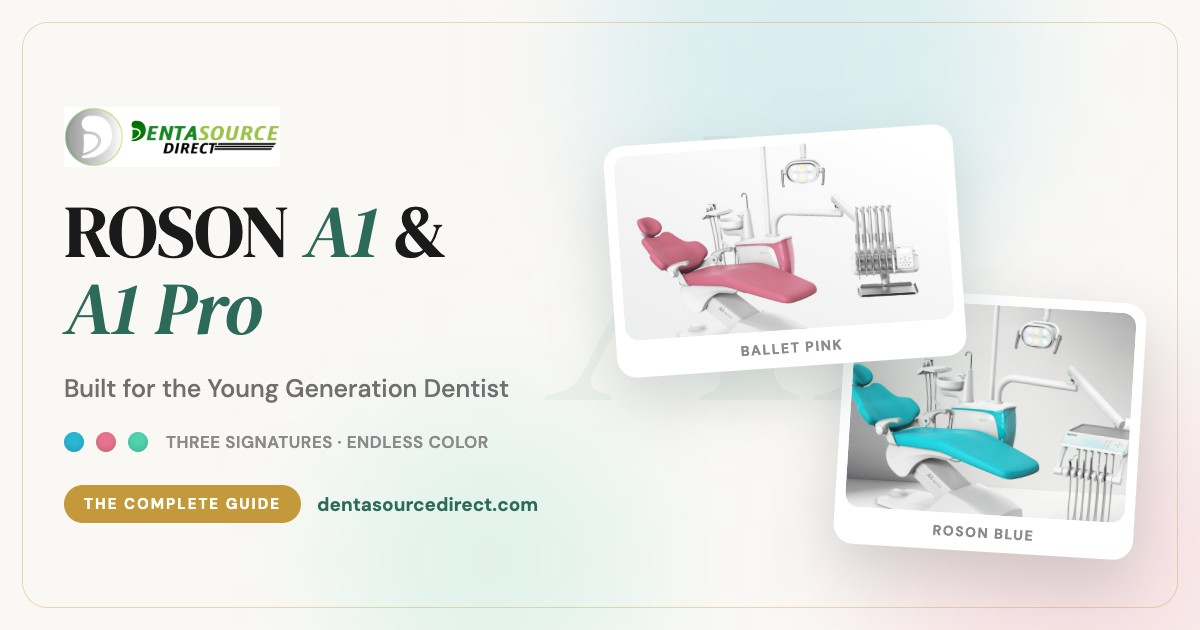
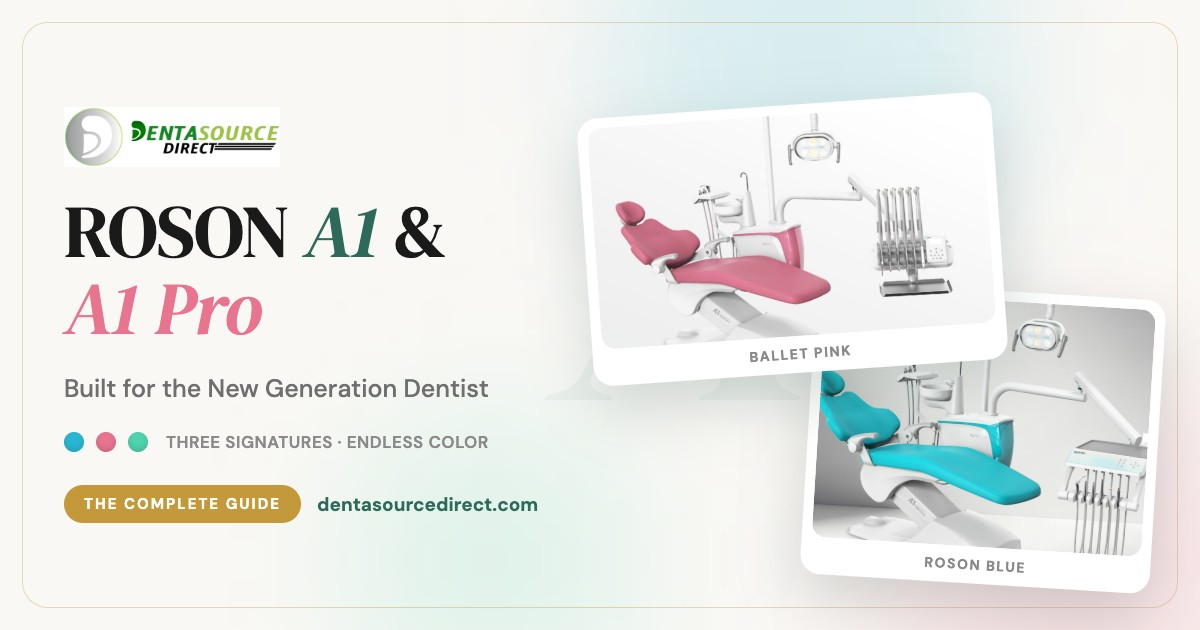
fix(news): OG v2 (pink A1 Pro, bigger chair tiles) + new-generation wording
OG card: 'A1 Pro' now in Ballet Pink matching the chair, both chair
tiles enlarged for feed visibility, subline updated. All article copy
switched from 'young generation' to 'new generation dentist' (title,
abstract, quote, alt text).

Changed region(s): [[0.4933, 0.1508, 0.9867, 0.9651], [0.0617, 0.4524, 0.2158, 0.5429], [0.1542, 0.6032, 0.4317, 0.6333]]

diff --git a/src/data/news.js b/src/data/news.js
@@ -2,15 +2,15 @@ export const newsData = [
     {
         id: "roson-a1-guide-2026",
         slug: "roson-a1-a1-pro-complete-guide",
-        title: "ROSON A1 & A1 Pro: The Chair Built for the Young Generation Dentist",
+        title: "ROSON A1 & A1 Pro: The Chair Built for the New Generation Dentist",
         date: "July 1, 2026",
         image: "/images/news/roson-training-2026/a1-cover.jpg",
         ogImage: "/images/news/roson-a1-2026/og-a1-guide.jpg",
         hideHeroImage: false,
-        abstract: "ROSON calls it the first dental unit made for the young generation dentist — a chair that matches your clinic's identity instead of dictating it, with a serious clinical machine underneath. Here's the complete guide to the A1 and A1 Pro: every colorway, every feature, and how to choose between the two.",
+        abstract: "ROSON calls it the first dental unit made for the new generation dentist — a chair that matches your clinic's identity instead of dictating it, with a serious clinical machine underneath. Here's the complete guide to the A1 and A1 Pro: every colorway, every feature, and how to choose between the two.",
         content: `## A Dental Unit That Breaks the Oldest Rule
 
-Walk into almost any dental clinic in the world and the equipment looks the same. ROSON looked at the new generation of dentists — clinic owners who design their spaces, build their brands, and think about how every detail feels to a patient — and built the **A1** for them. Their own words: **"the first dental unit for young generation dentists."** Shaped by color. Defined by quality.
+Walk into almost any dental clinic in the world and the equipment looks the same. ROSON looked at the new generation of dentists — clinic owners who design their spaces, build their brands, and think about how every detail feels to a patient — and built the **A1** for them. Their own words: **"the first dental unit for new generation dentists."** Shaped by color. Defined by quality.
 
 This is the complete guide, drawn from the official product material and from the hands-on walkthrough ROSON's team gave us in our showroom. If you want the story of that visit, start with [our main report](/news/roson-trains-dentasource-team-manila-2026) — then come back for the chair itself.
 
@@ -286,9 +286,9 @@ And that learning happened right here, too. During this visit, the ROSON delegat
 
 ## What's Coming Next: Meet the A1
 
-The session also previewed what's arriving on our floor next — and it's exciting. The star was the upcoming **ROSON A1**, which ROSON bills as **"the first dental unit for young generation dentists."**
+The session also previewed what's arriving on our floor next — and it's exciting. The star was the upcoming **ROSON A1**, which ROSON bills as **"the first dental unit for new generation dentists."**
 
-![ROSON A1 — the first dental unit for young generation dentists](/images/news/roson-training-2026/a1-cover.jpg)
+![ROSON A1 — the first dental unit for new generation dentists](/images/news/roson-training-2026/a1-cover.jpg)
 
 The A1 breaks the oldest rule in dental equipment: that every clinic has to look the same. It launches with three signature colors — **ROSON Blue, Ballet Pink, and Mint Green** — with integrated color customization across the upholstery, water box, and instrument tray, so the whole unit matches your clinic's identity, not the other way around.
 
